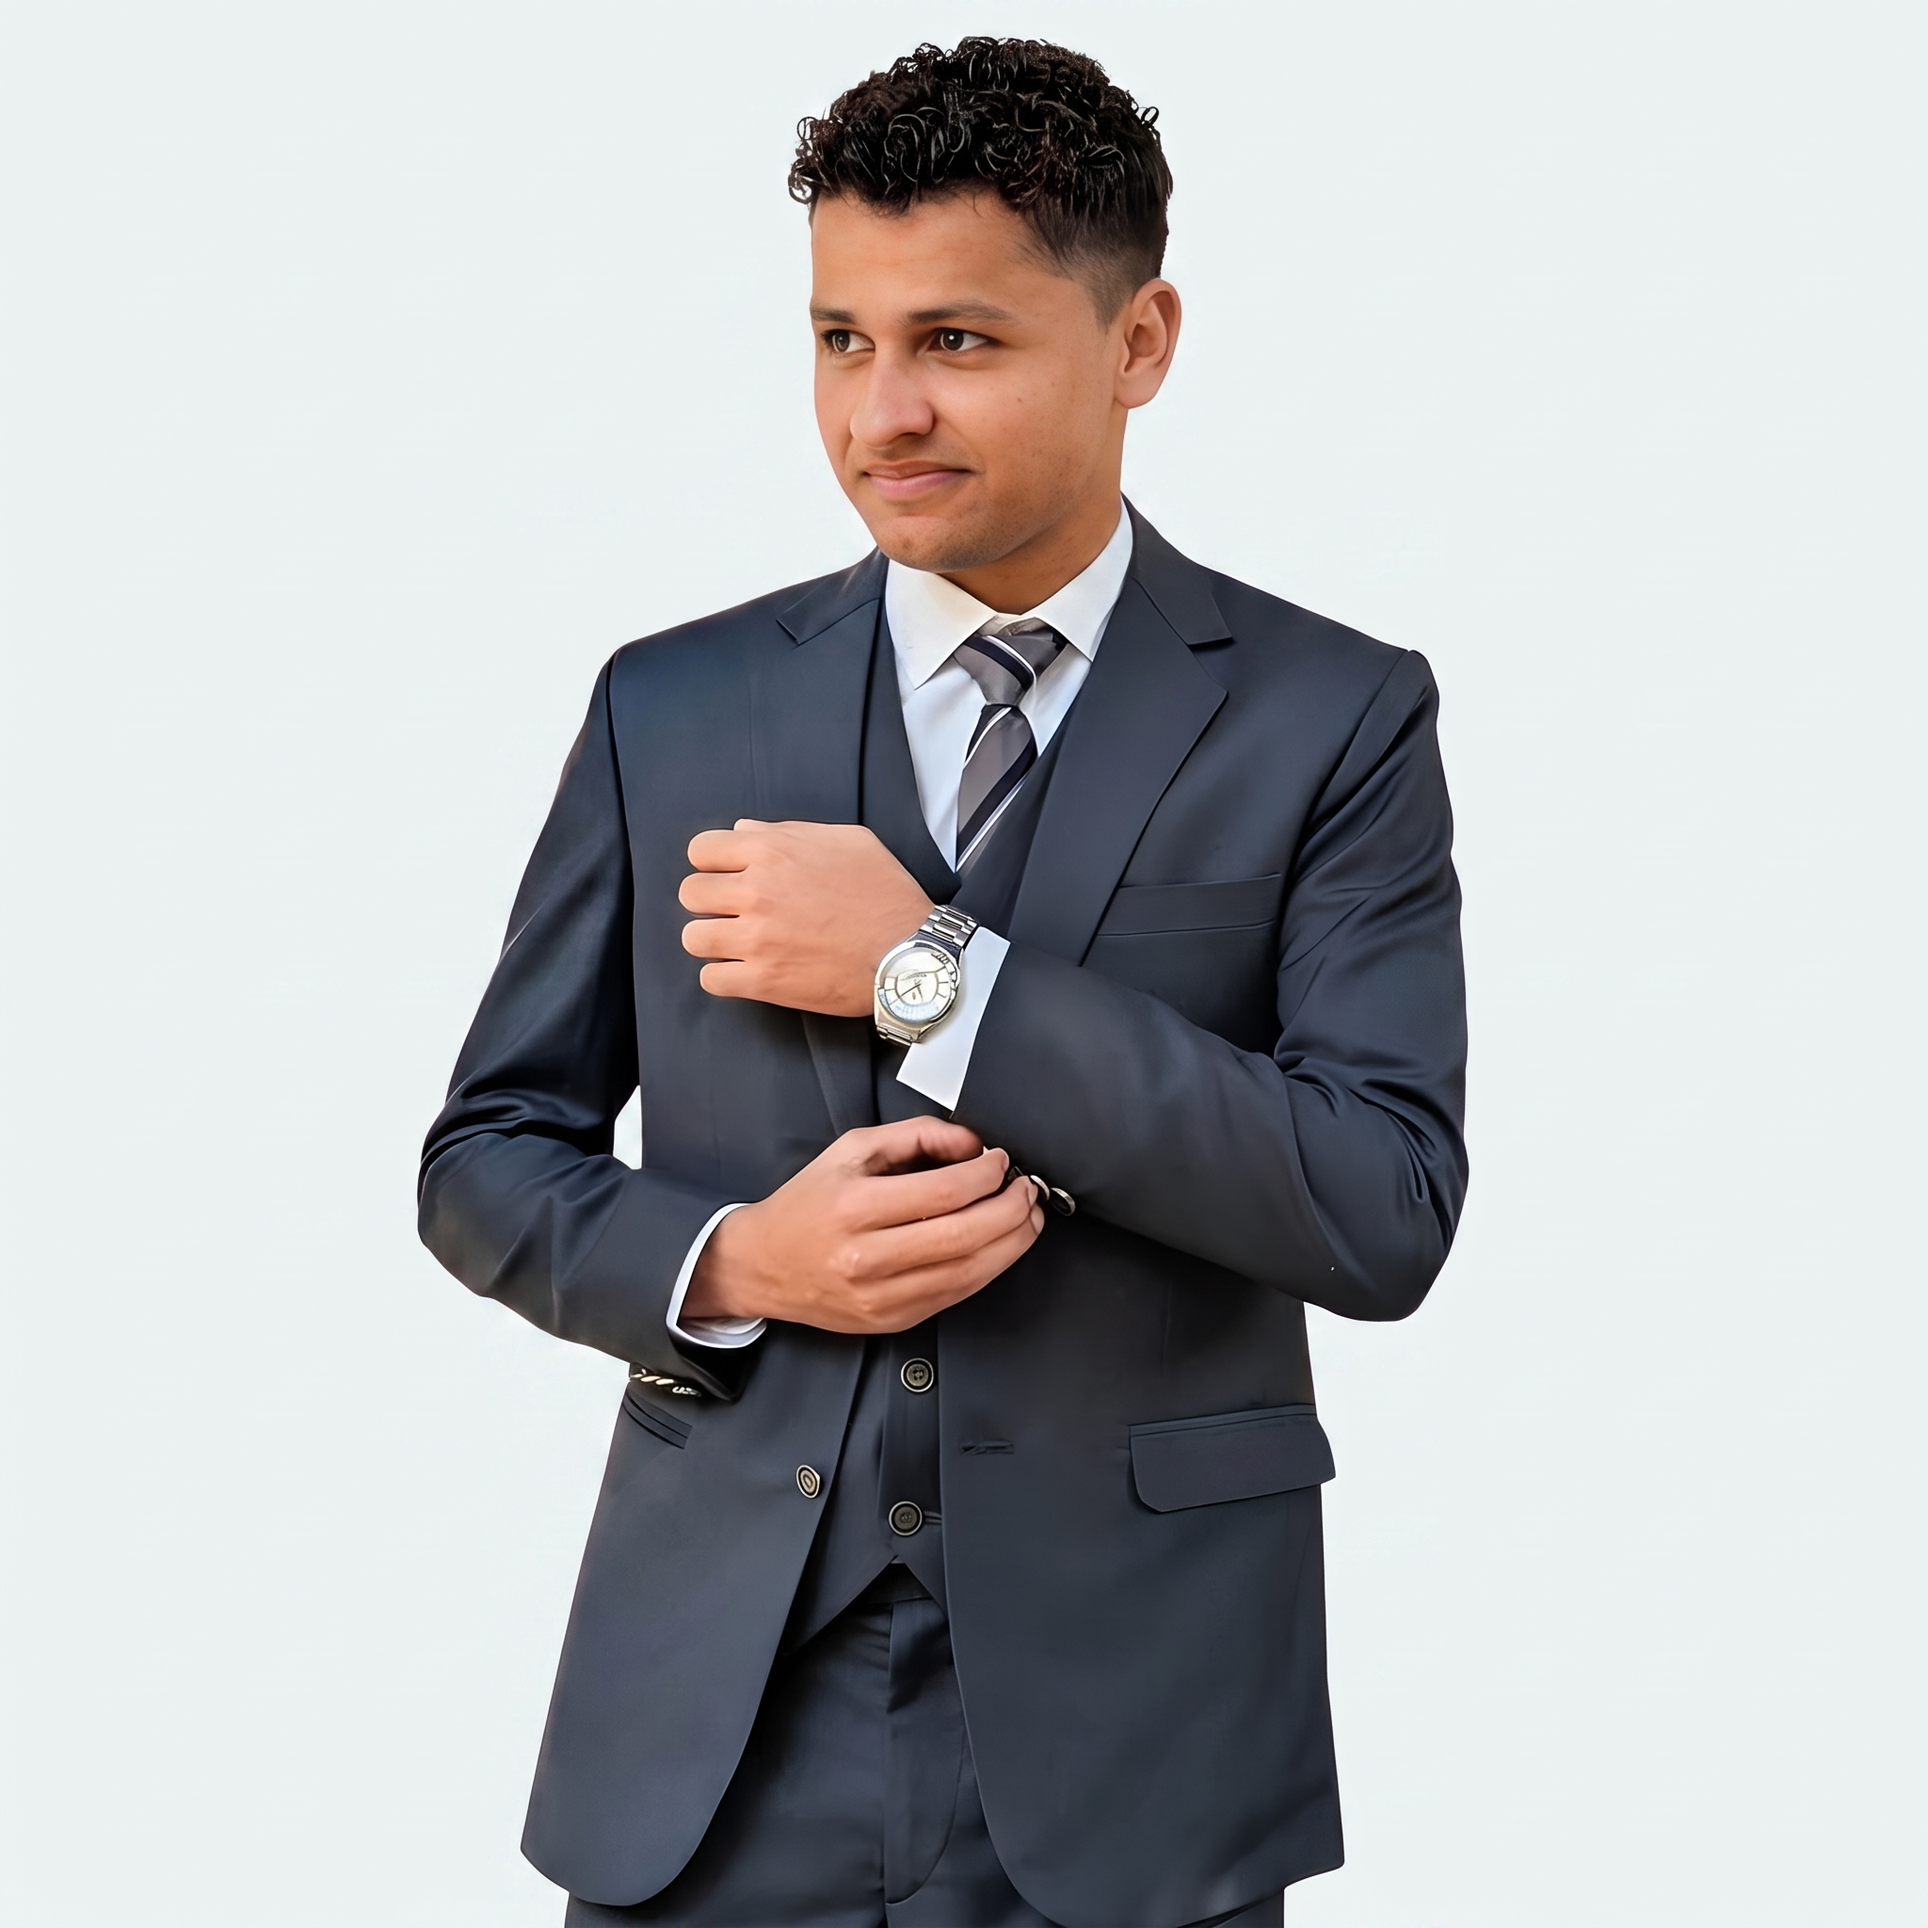
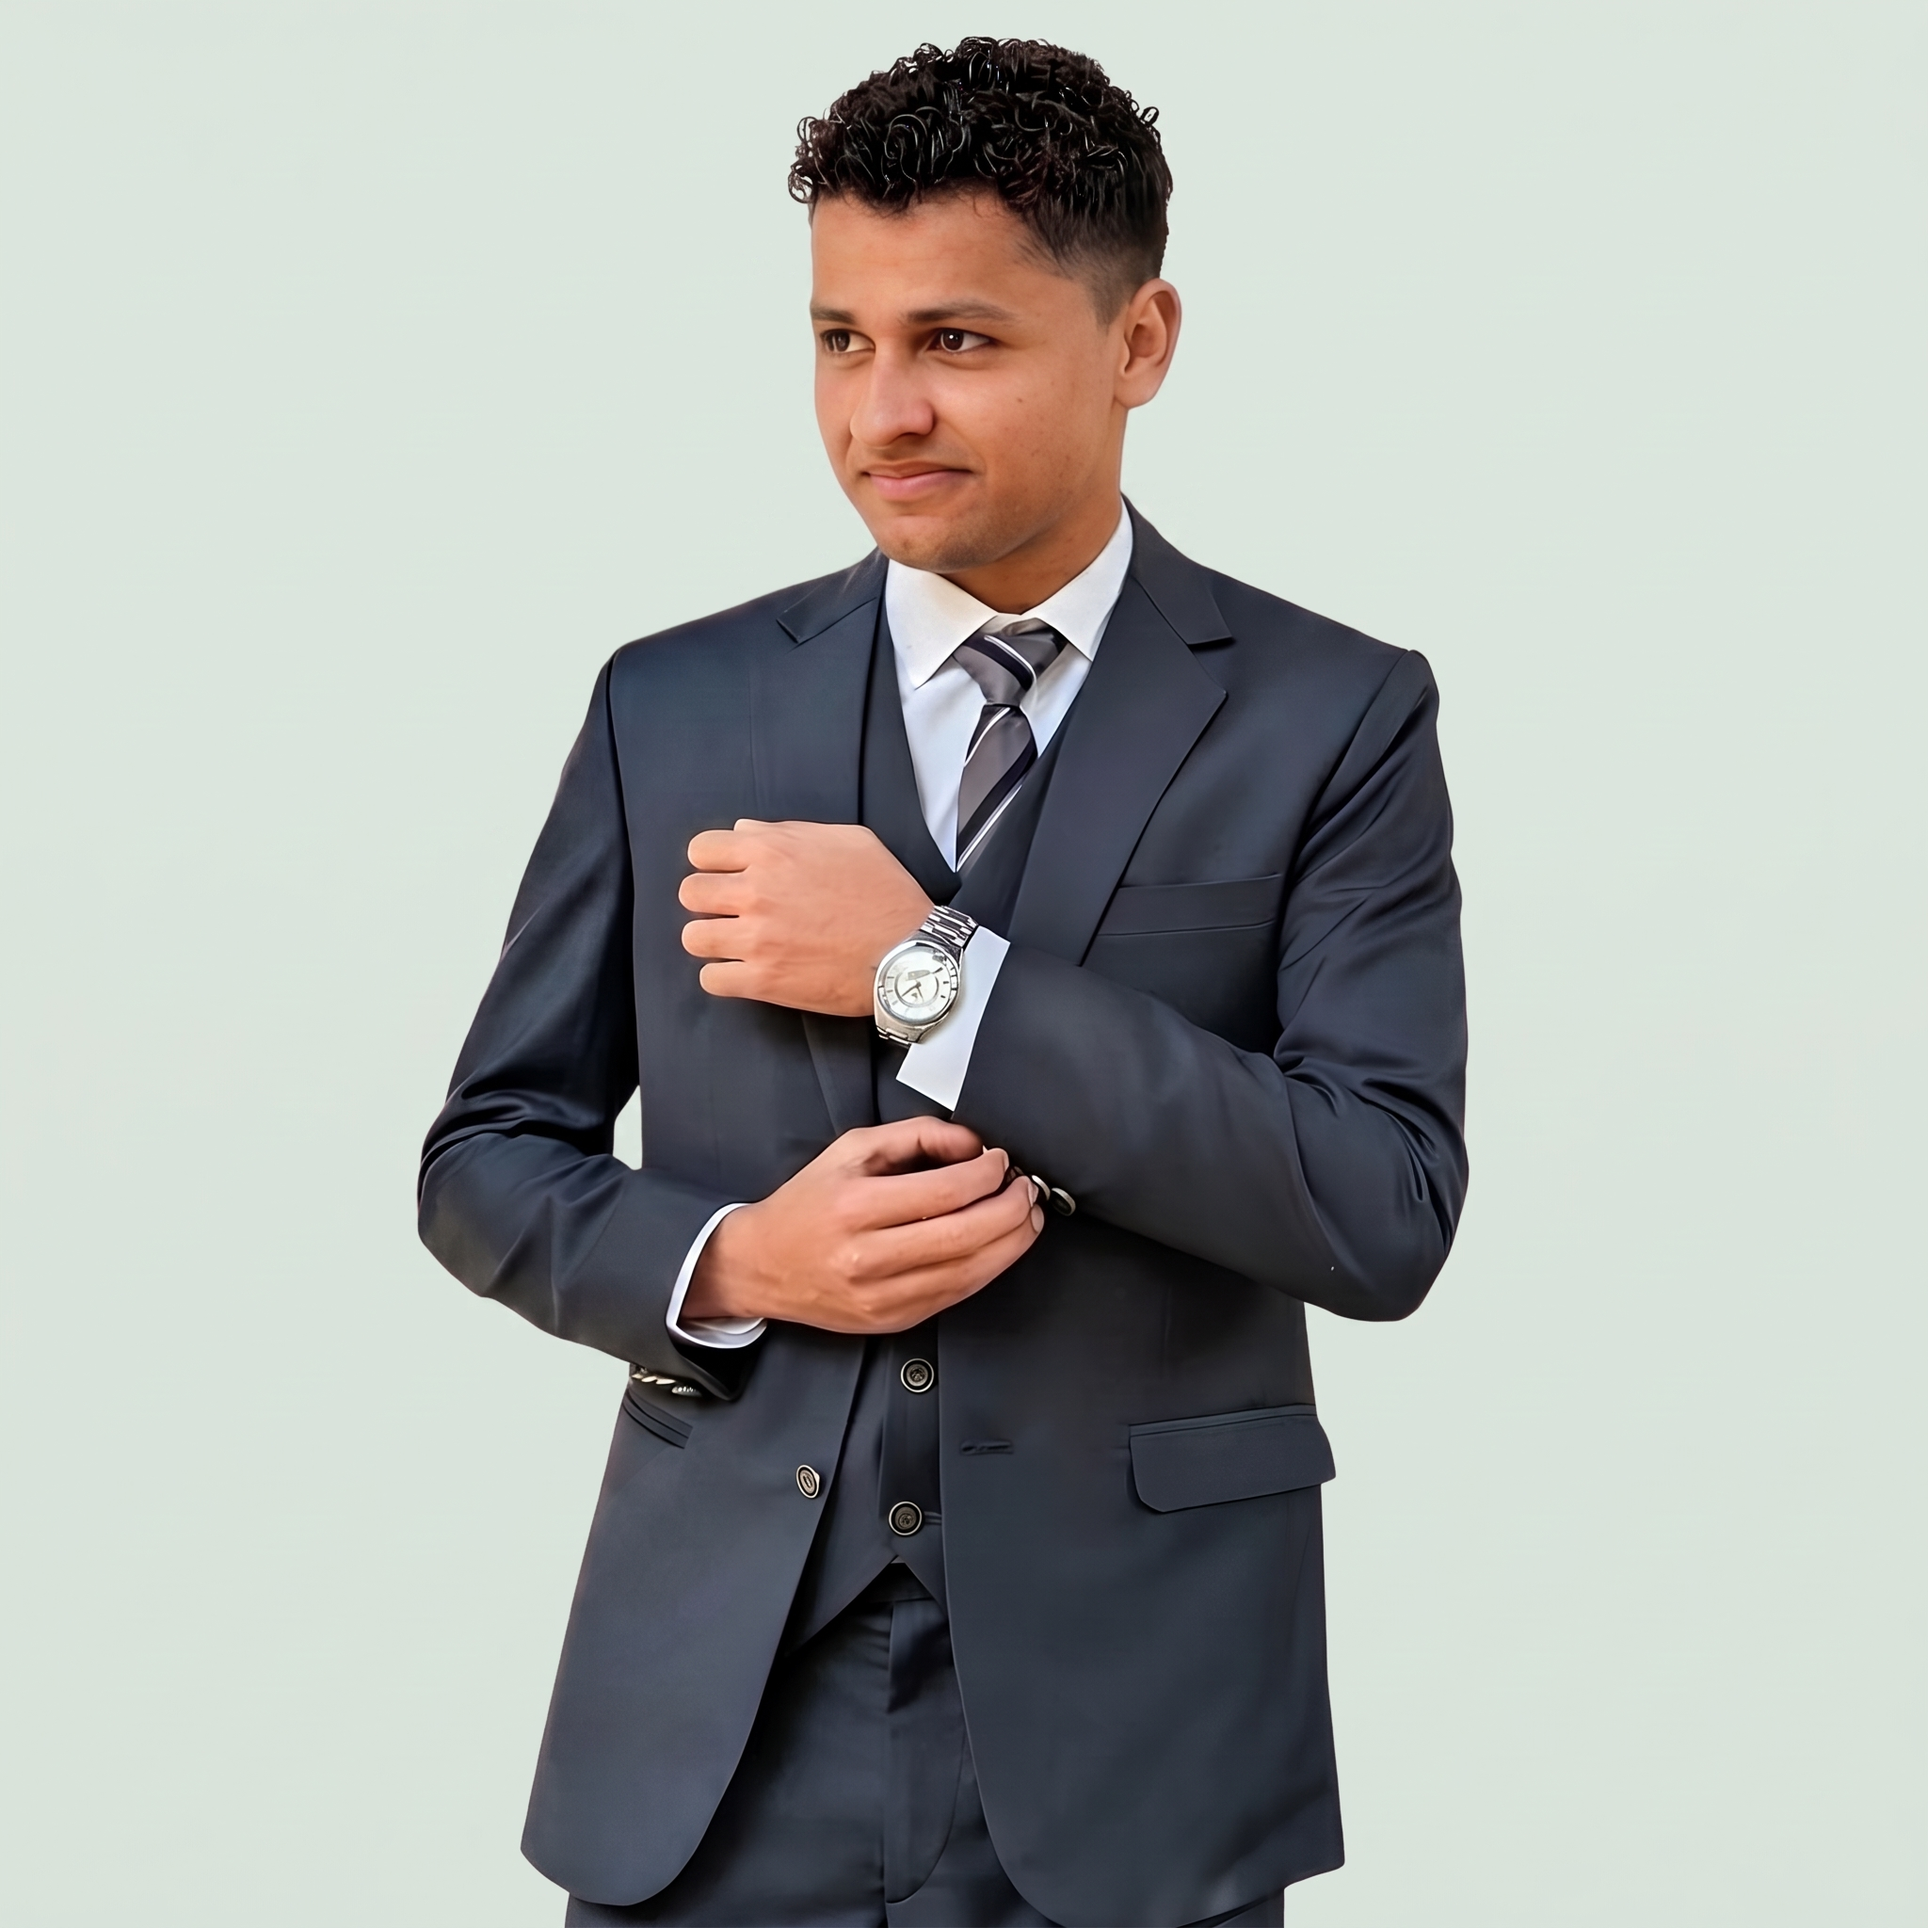
updates

diff --git a/components/ProfileCard.js b/components/ProfileCard.js
@@ -35,8 +35,7 @@ export default function ProfileCard({ profileData, socialLinks }) {
     )
   }
 
-  const profileImage =
-    imageError || !profileData.dp ? profileData.dp2?.url || "/profile-casual.jpeg" : profileData.dp?.url || "/profile-casual.jpeg"
+  const profileImage = imageError ? "/placeholder.svg" : "/side-pfp.jpeg"
 
   return (
     <motion.div
@@ -46,7 +45,7 @@ export default function ProfileCard({ profileData, socialLinks }) {
       variants={staggerContainer}
     >
       <motion.div
-        className="relative w-28 h-28 rounded-none overflow-hidden mb-5 border-2 border-border"
+        className="relative w-32 h-32 rounded-full overflow-hidden mb-5 border-2 border-brand-600/40 ring-4 ring-brand-600/10 shadow-sm"
         variants={clipReveal}
       >
         <Image
@@ -54,7 +53,7 @@ export default function ProfileCard({ profileData, socialLinks }) {
           alt={profileData?.Name || "Profile"}
           fill
           className="object-cover"
-          sizes="112px"
+          sizes="128px"
           priority
           onError={() => setImageError(true)}
         />

diff --git a/components/Footer.jsx b/components/Footer.jsx
@@ -22,8 +22,8 @@ export default function Footer() {
       <div className="flex justify-center gap-2 mt-2">
         {[
           { href: "mailto:me@basatmaqsood.com", label: "Email Me" },
-          { href: "tel:+923078776306", label: "Call Me" },
-          { href: "https://wa.me/923078776306", label: "WhatsApp", external: true },
+          { href: "tel:+923260185306", label: "Call Me" },
+          { href: "https://wa.me/923260185306", label: "WhatsApp", external: true },
         ].map((item) => (
           <Magnetic key={item.label} strength={0.35}>
             <a
